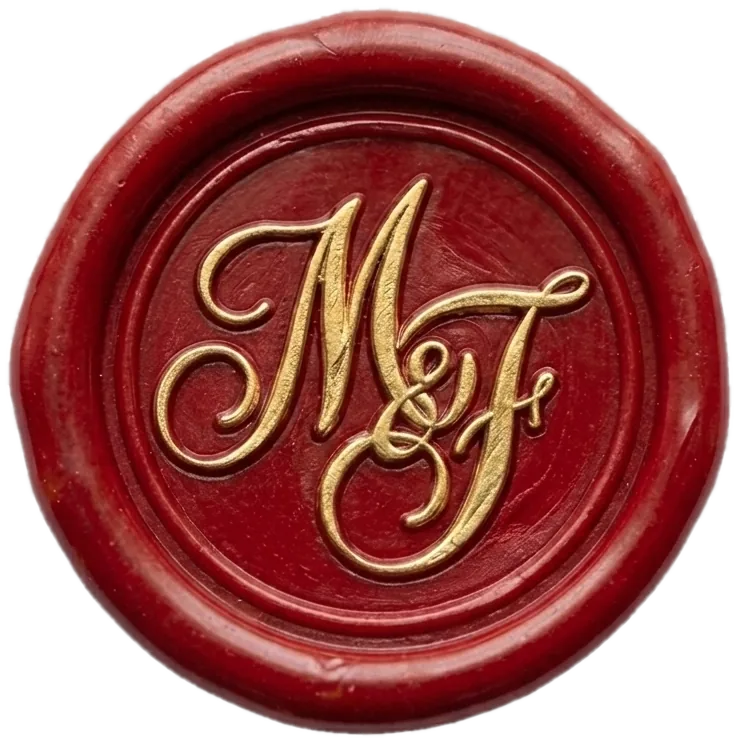
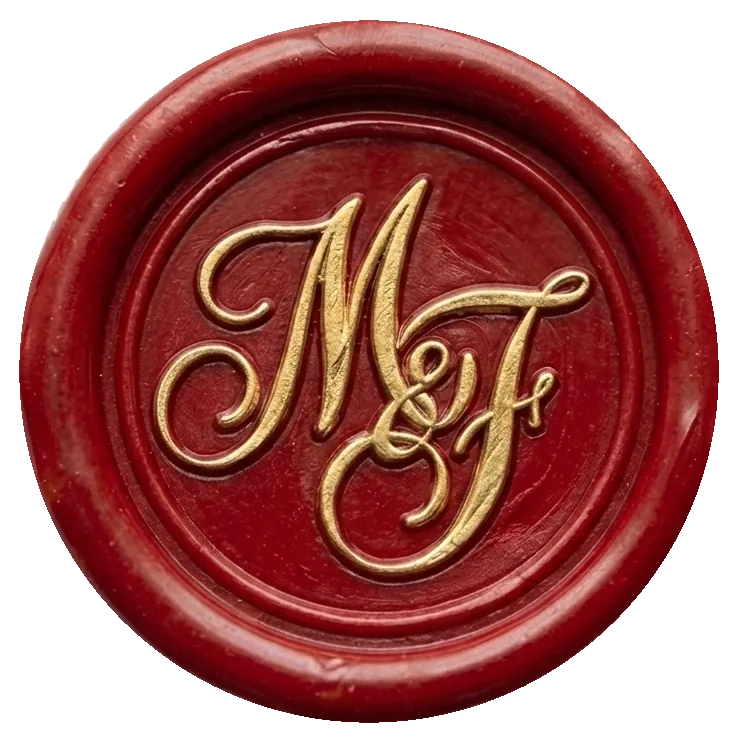
Add files via upload

diff --git a/css/style.css b/css/style.css
@@ -109,7 +109,7 @@ a { color: inherit; }
   left: 50%; top: 54.6%;
   transform: translate(-50%, -50%);
   width: min(30vw, 200px); height: auto;
-  filter: drop-shadow(0 6px 10px rgba(0,0,0,.45));   /* el lacre apoyado en el sobre */
+  filter: drop-shadow(0 6px 10px rgba(0,0,0,.45));
   pointer-events: none; user-select: none;
   z-index: 3;
   opacity: 1;
@@ -478,6 +478,7 @@ a { color: inherit; }
   .story__chapter { gap: 1.2rem; }
   .story__chapter-title { font-size: 1.4rem; }
   .story__chapter-text { font-size: 1.05rem; }
+  .story__timeline { text-align: center; }
 }
 
 /* =========================================================

diff --git a/js/script.js b/js/script.js
@@ -297,7 +297,7 @@ document.querySelectorAll('[data-cal]').forEach((link) => {
   origSlides.forEach(s => track.appendChild(s.cloneNode(true)));
 
   const GAP = 16;           // px — debe coincidir con gap del CSS (1rem)
-  const SPEED = window.innerWidth <= 480 ? 2.0 : 3.0; // 120px/s móvil, 180px/s escritorio
+  const SPEED = window.innerWidth <= 480 ? 1.667 : 3.0; // 100px/s móvil, 180px/s escritorio
   function getVisible() {
     const vw = window.innerWidth;
     if (vw <= 480) return 2;